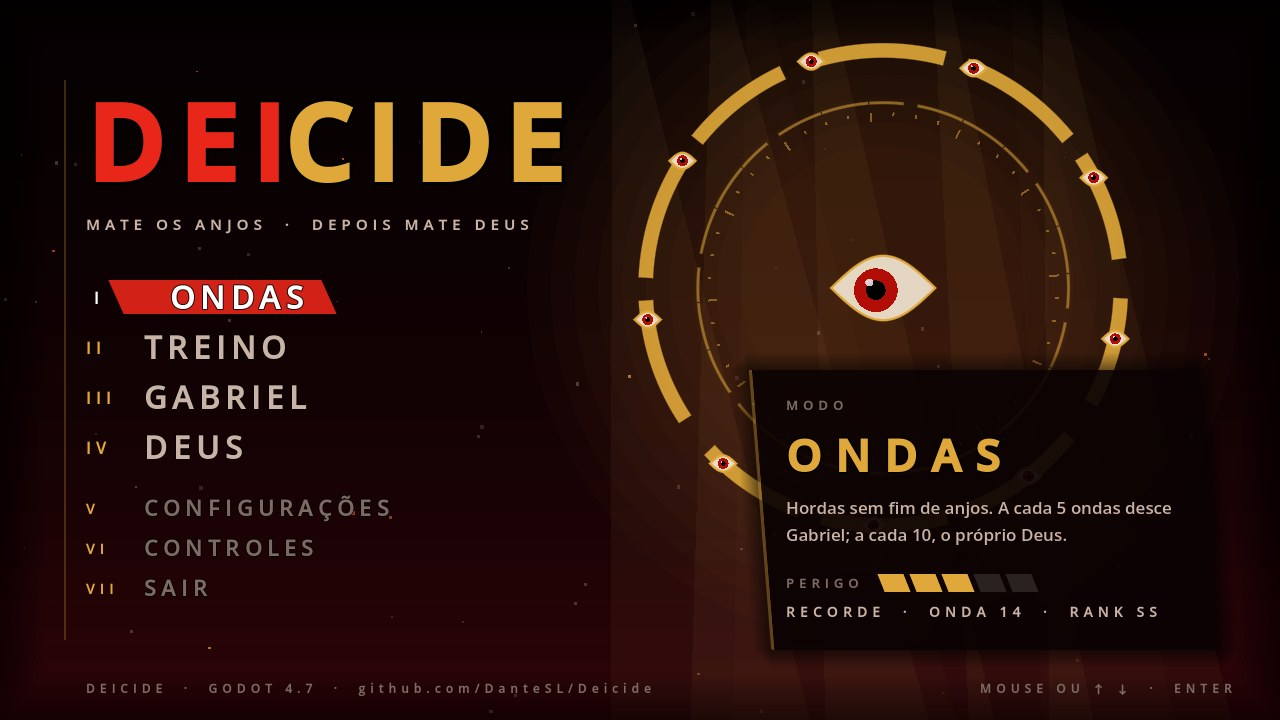
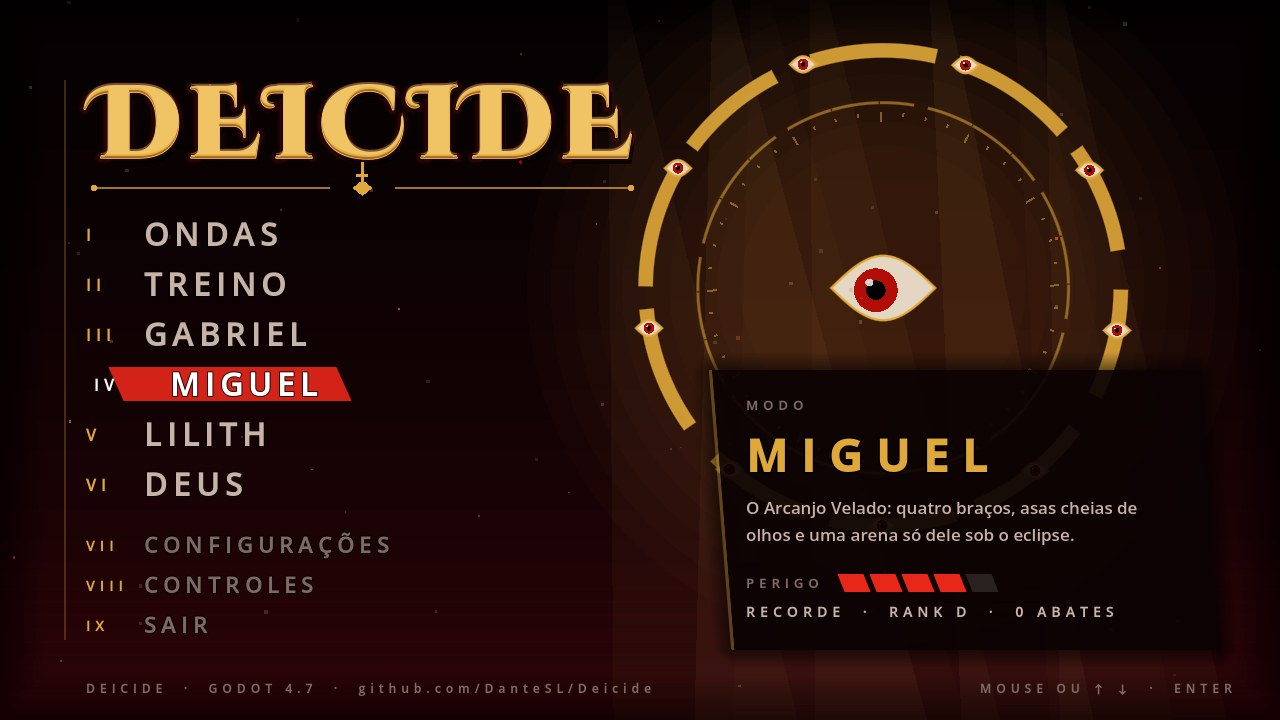
Menu: título novo só com DEICIDE e pausa transparente com filtro escuro
Claude-Session: https://claude.ai/code/session_01XQta9wH9Q7MkitcZydzUWR

diff --git a/CHANGELOG.md b/CHANGELOG.md
@@ -1,5 +1,14 @@
 # Histórico de mudanças
 
+## Título novo e menu de pausa transparente
+
+- Menu principal: o título virou só "DEICIDE", sem a descrição embaixo, em letras góticas douradas com brilho de brasa
+  pulsando, reflexo passando pelas letras, gotas de sangue escorrendo e um filete com cruz invertida.
+- Menu de pausa (ESC) redesenhado: o jogo continua visível atrás, borrado e escurecido com vinheta;
+  "PAUSA" no centro com modo, tempo e abates, coluna centralizada entre molduras douradas e cinzas caindo.
+  Configurações e controles abrem num painel à direita e a coluna desliza para o lado.
+- Animações do menu não travam mais com câmera lenta (ignoram a escala de tempo).
+
 ## Lilith mais viva
 
 - Pernas e saia balançam de leve, como quem flutua (cada perna num ritmo, sem rasgar a malha).

diff --git a/README.md b/README.md
@@ -65,6 +65,8 @@ Um ranking de heresia (de Devoto a Supremo Sacrilégio) recompensa variar as arm
 | O **jab**: o braço inteiro estica com o punho fechado | O revólver de dois canos e a recarga com as duas mãos |
 | ![Ceifadora](docs/img/ceifadora.jpg) | ![Menu](docs/img/menu.jpg) |
 | A **Ceifadora**, com esqueleto animado por código | O menu principal |
+| ![Pausa](docs/img/pausa.jpg) | |
+| O menu de pausa, com o jogo borrado ao fundo | |
 
 ## Como jogar
 
